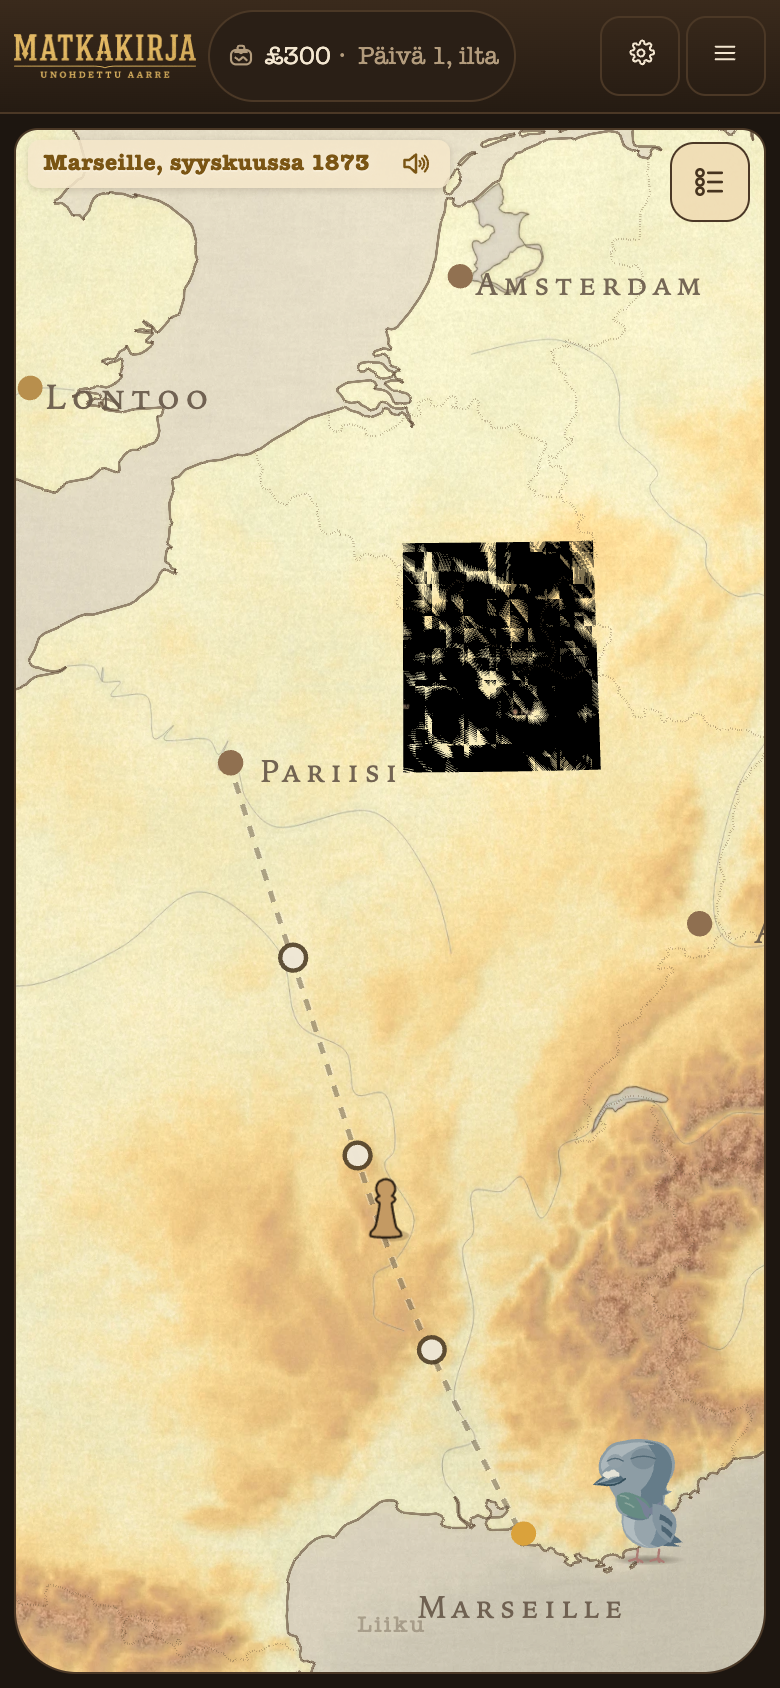
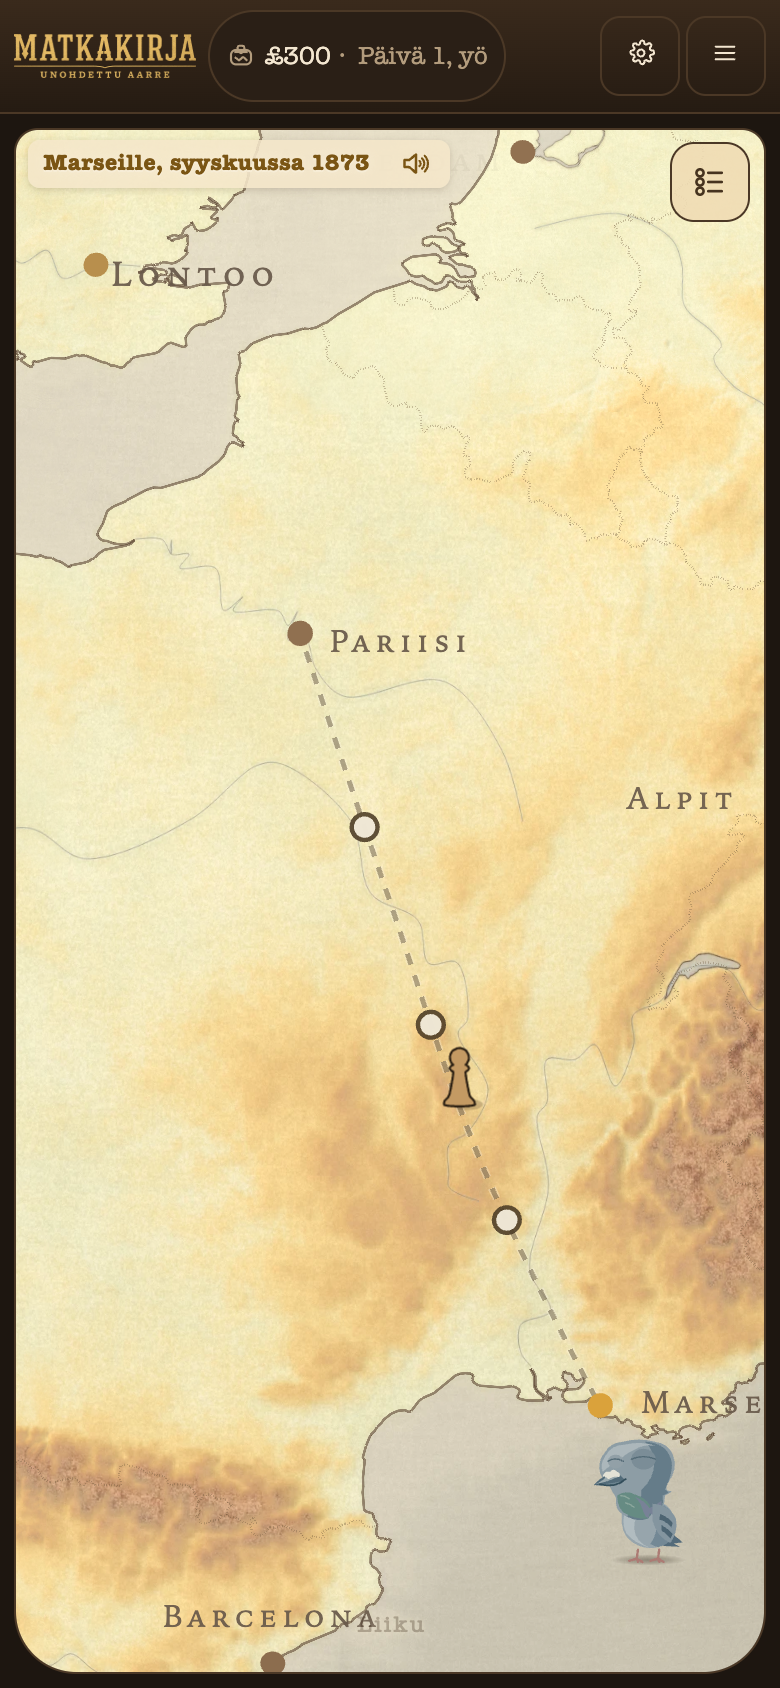
Saatto liukuu nappulan mukana (PAATOKSET 43 kohta 11)
Omistaja 18.9.2026 (iPad/iPhone, v1946): "Kun nappula liikkuu
liftauksen aikana, kartta panoroi vaaraan suuntaan."

JUURISYY MITATTU (savuke-siirtozoomin pohja, Marseille -> pohjoinen,
390x844 ja 1400x900): saatto ajoi maaranpaan SAAPUMISASENTOON, jonka
poikkeama { x: -0,08, y: +0,28 } on NAKYMASTA eli kasvaa nakyvan
kaaren mukana. 1400 px:lla itasiirto oli +1,49 astetta, kun koko
matkan pituusaste-ero on -2,38 astetta: kameran maali jai lahtopisteen
itapuolelle ja kamera panoroi itaan nappulan kulkiessa lanteen
(lng 4,4535 -> 4,4700). 390 px:lla kamera liikkui lanteen vain
kolmanneksen matkasta (-0,77) ja ohitti maaranpaan pohjoisessa
1,3-kertaisesti, joten nappula valui 80 px vasemmalle ja 93 px alas.
Pistetulo kameran ja nappulan liikevektorin valilla oli 0/28
molemmilla ruuduilla.

KORJAUS: askelmittakaavan saaton maali on nappulan SIIRTYMA
(maaranpaa - lahtopaikka) lisattyna kameran nykyiseen keskipisteeseen,
ei saapumisasento. Kesto, kayra ja ennakkozoomin mittakaava
ennallaan. Saapumisasennon tekee perilla palaaMaanRajaukseen ->
lauta.saavu; laiva ja tuntematon kulkutapa pitavat entisen
saapumisajon.

MITATTU JALKEEN: pistetulo > 0 24/24 (390 px) ja 23/23 (1400 px),
nappula keskimmaisella 60 %:lla 201/201 molemmilla.

Savuke-siirtozoomi: uusi vartio 8 "saatto liikkuu nappulan suuntaan"
(pistetulo > 0 jokaisessa 100 ms:n navevalissa + keskialue), kaappaus
saatto-suunta-390.png. Yksi ajo, PORTTI=8832: 16/16 vartiota lapi.
[…]

diff --git a/js/ui.js b/js/ui.js
@@ -22569,9 +22569,10 @@ export class UI {
    * mikä ei ole tilaus (tilaus on panorointi). (3) Siirron on oltava
    * ruudulla tuntuva (SAATON_VAHIN_PX), muuten kartta vain värähtäisi.
    *
-   * KOHDE ON MATKAN PÄÄTEPISTE eikä kaupungin muotolaatikko: kerrointa
-   * ei anneta, joten kamera pitää nykyisen mittakaavansa ja pelkkä
-   * keskipiste siirtyy. MITTAKAAVAN ON ASETTANUT ENNAKKOZOOMI, joka
+   * KOHDE ON NAPPULAN SIIRTYMÄ (askelmittakaavalla) tai matkan
+   * päätepiste — ei kaupungin muotolaatikko: kerrointa ei anneta, joten
+   * kamera pitää nykyisen mittakaavansa ja pelkkä keskipiste siirtyy.
+   * MITTAKAAVAN ON ASETTANUT ENNAKKOZOOMI, joka
    * ajettiin juuri ennen tätä — saatto ei enää zoomaa itse, koska
    * kaksi mittakaavaa samassa ajossa on täsmälleen se sekamelska,
    * jonka omistaja pyysi purkamaan. Näin myös nappulan
@@ -22581,8 +22582,12 @@ export class UI {
    * Lupausta ei odoteta: ajo saa jäädä pyörimään saapumisen yli, ja
    * ele saa keskeyttää sen milloin tahansa. Perillä kamera JÄÄ SIIHEN
    * (ks. osion johdanto: paluuajo poistettiin 1.9.2026).
+   *
+   * `from` on nappulan LÄHTÖPAIKKA: askelmittakaavan saatto liukuu
+   * nappulan mukana eikä määränpään asentoon (ks. SAATTO LIUKUU
+   * NAPPULAN MUKANA alla). Ilman sitä käytös on entinen.
    */
-  aloitaSaattavaKamera(path, kesto) {
+  aloitaSaattavaKamera(path, kesto, from = null) {
     if (this.reducedMotion || this.dead) return;
     const kartta = this.kamera();
     if (!kartta?.ajaKamera) return;
@@ -22618,20 +22623,77 @@ export class UI {
     const skaala = tavoiteLeveys > 0 && nyt.leveys > 0
       ? nyt.skaala * (nyt.leveys / tavoiteLeveys)
       : nyt.skaala;
-    const matka = Math.hypot(kohta.x - nyt.x, kohta.y - nyt.y) * skaala;
+    /*
+     * ══════════════════════════════════════════════════════════════
+     * SAATTO LIUKUU NAPPULAN MUKANA (Raamattu, KARTTAUUDISTUKSEN
+     * PAATOKSET 43 kohta 11)
+     * ══════════════════════════════════════════════════════════════
+     *
+     * Omistaja 18.9.2026 (iPad/iPhone, v1946), sanatarkasti: *"Kun
+     * nappula liikkuu liftauksen aikana, kartta panoroi vaaraan
+     * suuntaan."*
+     *
+     * JUURISYY ON MITATTU EIKÄ ARVATTU (savuke-siirtozoomin pohjalta,
+     * Marseille → Nevers, land, silmä 3):
+     *
+     *   Saatto ajoi määränpään SAAPUMISASENTOON, ja se asento on
+     *   kaupungin POHJOIS- JA ITÄPUOLELLA — poikkeama on
+     *   { x: −0,08, y: +0,28 } NÄKYMÄSTÄ (js/saapumisasento.js
+     *   saapumisenPallonKohta), eli se kasvaa näkyvän kaaren mukana.
+     *   Työpöytäruudulla (1400 × 900, näkyvä leveys 396 lautayksikköä
+     *   = 11,88°) itäsiirto oli +1,49°, kun koko matkan pituusaste-
+     *   ero on vain −2,38°: kameran kohde jäi LÄHTÖPISTEEN ITÄPUOLELLE
+     *   (lng 4,4535 → 4,4700), vaikka nappula kulki länteen. Mitattu
+     *   kameran liikevektori oli siis pituusasteella VASTAKKAINEN
+     *   nappulan liikkeelle — juuri se, minkä omistaja näki.
+     *   Puhelimella (390 × 844) sama poikkeama oli +0,67° itään ja
+     *   +3,07° pohjoiseen: kamera liikkui länteen vain kolmanneksen
+     *   nappulan matkasta ja ohitti määränpään 1,3-kertaisesti
+     *   pohjoisessa, joten nappula valui ruudulla 80 px vasemmalle ja
+     *   90 px alas.
+     *
+     * KORJAUS ON PUHDAS SIIRTYMÄ: kamera ajaa siitä, missä se on, sen
+     * verran ja siihen suuntaan kuin NAPPULA kulkee (määränpää −
+     * lähtöpaikka). Silloin kameran liikevektori on määritelmän
+     * mukaan nappulan liikkeen suuntainen, ja nappula pysyy koko
+     * matkan siinä kohdassa ruutua, johon ennakkozoomi sen jätti.
+     * Kesto, käyrä ja mittakaava ovat ennallaan — muuttuu vain MAALI.
+     *
+     * SAAPUMISASENTO EI KATOA. Maitse ja bussilla kaupunkiin päättyvä
+     * matka ajaa perillä `palaaMaanRajaukseen` → `lauta.saavu`, ja
+     * SE asettaa kaupungin alimpaan kolmannekseen (js/pallolauta/
+     * kamera.js saavu, `saapuminen: true`). Kun saatto teki saman
+     * asennon jo matkan aikana, asento tehtiin kahdesti — ja
+     * ensimmäinen kerta maksoi koko panoroinnin suunnan.
+     *
+     * LAIVA JA TUNTEMATON KULKUTAPA ENNALLAAN. Niillä ennakkozoomi
+     * rajaa KOKO MATKAN (MATKARAJAUKSEN_MARGINAALI sea 0,5,
+     * PAATOKSET 40: *"LAIVA PITÄÄ MATKARAJAUKSENSA"*), jolloin kamera
+     * ei ole nappulan päällä vaan matkan keskellä eikä puhdas siirtymä
+     * osuisi mihinkään. Ehto on sama `tavoiteLeveys`, joka erottaa
+     * askelmittakaavan muista jo kynnyksessä.
+     */
+    const lahto = from ? pixelOf(this.game.board, from) : null;
+    const siirtyma = tavoiteLeveys > 0 && Number.isFinite(lahto?.x)
+      ? { x: kohta.x - lahto.x, y: kohta.y - lahto.y }
+      : null;
+    const matka = siirtyma
+      ? Math.hypot(siirtyma.x, siirtyma.y) * skaala
+      : Math.hypot(kohta.x - nyt.x, kohta.y - nyt.y) * skaala;
     // Kynnys ruudun leveydestä, pohja absoluuttinen (ks. SAATON_VAHIN_PX).
     const kynnys = Math.max(SAATON_VAHIN_PX,
       (this.mapPane?.clientWidth ?? 0) * SAATON_VAHIN_OSUUS);
     if (!(matka > kynnys)) return;
     /*
-     * SAATTO PÄÄTTYY SAAPUMISASENTOON (omistaja 9.9.2026, Raamattu
-     * SAAPUMISESSA KAMERA ASETTUU NIIN, ETTA KAUPUNKI ON ALIMMASSA
-     * KOLMANNEKSESSA): määränpää ei jää ruudun keskelle vaan alimpaan
-     * kolmannekseen, jolloin luentakuvalle jää tila sen yläpuolelle.
-     * Kävelymatkalla tämä ON saapumisajo — paluuajo poistettiin
-     * 1.9.2026, joten kamera jää tähän asentoon. Siirto lasketaan
-     * laudan kamerassa (`saapuminen`), joten kaava on sama molemmilla
-     * laudoilla eikä ui.js tunne lautaa.
+     * SAATTO PÄÄTTYY SAAPUMISASENTOON — VAIN SILLOIN KUN SE ON MATKAN
+     * VIIMEINEN AJO (omistaja 9.9.2026, Raamattu SAAPUMISESSA KAMERA
+     * ASETTUU NIIN, ETTA KAUPUNKI ON ALIMMASSA KOLMANNEKSESSA).
+     * Askelmittakaavan saatto EI enää tee sitä: sen maali on nappulan
+     * siirtymä (yllä), ja asennon tekee perillä `palaaMaanRajaukseen`.
+     * Muilla (laiva, tuntematon kulkutapa) tämä on yhä se ajo, johon
+     * kamera jää, joten `saapuminen` säilyy. Siirto lasketaan laudan
+     * kamerassa, joten kaava on sama molemmilla laudoilla eikä ui.js
+     * tunne lautaa.
      */
     /*
      * SAATTO PITÄÄ ENNAKKOZOOMIN MITTAKAAVAN — NYT KIRJATTUNA, EI
@@ -22649,12 +22711,19 @@ export class UI {
      * Ilman lukua (laiva, tuntematon kulkutapa) käytös on entinen:
      * pelkkä keskipiste siirtyy.
      */
-    void kartta.ajaKamera(
-      tavoiteLeveys > 0
-        ? { x: kohta.x, y: kohta.y, leveys: tavoiteLeveys, saapuminen: true }
-        : { x: kohta.x, y: kohta.y, saapuminen: true },
-      { kesto, pehmennys: SAATON_PEHMENNYS },
-    );
+    let kamerankohde;
+    if (siirtyma) {
+      kamerankohde = {
+        x: nyt.x + siirtyma.x, y: nyt.y + siirtyma.y, leveys: tavoiteLeveys,
+      };
+    } else if (tavoiteLeveys > 0) {
+      kamerankohde = {
+        x: kohta.x, y: kohta.y, leveys: tavoiteLeveys, saapuminen: true,
+      };
+    } else {
+      kamerankohde = { x: kohta.x, y: kohta.y, saapuminen: true };
+    }
+    void kartta.ajaKamera(kamerankohde, { kesto, pehmennys: SAATON_PEHMENNYS });
   }
 
   /**
@@ -22974,7 +23043,7 @@ export class UI {
       const kyydissa = kyyti && !this.reducedMotion && typeof kuljettaja.aja === 'function';
       const nappulanKesto = path.length * stepMs
         + (kyydissa ? 0 : Math.max(0, path.length - 1) * HYPYN_TAUKO_MS);
-      this.aloitaSaattavaKamera(path, siirtoajonKesto(nappulanKesto));
+      this.aloitaSaattavaKamera(path, siirtoajonKesto(nappulanKesto), from);
       /*
        * YHDEN ASKELEEN MATKA JÄÄ ILMAN OMAA ÄÄNTÄ. Maisema nousee
        * kuuluviin 900 ms:ssa, ja viimeinen askel vaihtaa sen jo

diff --git a/docs/raportit/viesti-fable-saatto-suunta-20260918.md b/docs/raportit/viesti-fable-saatto-suunta-20260918.md
@@ -1,0 +1,180 @@
+# Viesti Fablelle: saatto liikkuu nappulan suuntaan (PAATOKSET 43 kohta 11)
+
+**Opus-erä 18.9.2026, haara `claude/bold-ride-vow4ki-saatto-suunta`,
+pohja `claude/bold-ride-vow4ki-v1947` (72e775e9).**
+
+Omistaja sanatarkasti (v1946, iPad/iPhone): *"Kun nappula liikkuu
+liftauksen aikana, kartta panoroi vaaraan suuntaan."*
+
+---
+
+## 1. Juurisyy — MITATTU, ei arvattu
+
+Mittaus ajettiin savuke-siirtozoomin pohjalla: Marseille → maasiirto
+silmällä 3 (määränpää reitin pohjoispäässä Pariisin suuntaan,
+lat 47,566 / lon 3,005), ruudut 390 × 844 ja 1400 × 900, dpr 2, pallolauta.
+Saaton ajalta poimittiin näyte 100 ms:n välein: kameran keskipiste
+(`kameranTila` → lat/lng ja laudan x/y) ja liikkuvan nappulan ruutupiste.
+
+**Vika ei ollut ennakkozoomissa eikä pituusasteen merkissä vaan saaton
+MAALISSA: saatto ajoi määränpään SAAPUMISASENTOON.**
+
+Saapumisasento (js/saapumisasento.js `saapumisenPallonKohta`) siirtää
+kameran kaupungin **pohjois- ja itäpuolelle** poikkeamalla
+`{ x: −0,08, y: +0,28 }` **NÄKYMÄSTÄ** — eli siirto kasvaa näkyvän kaaren
+mukana. Mitatut luvut:
+
+| | näkyvä leveys | = kaari | itäsiirto | pohjoissiirto |
+|---|---|---|---|---|
+| 390 × 844 | 177,0 yks | 5,31° | **+0,67°** | **+3,07°** |
+| 1400 × 900 | 396,0 yks | 11,88° | **+1,49°** | **+1,98°** |
+
+Koko matkan pituusaste-ero on vain **−2,38°** (5,381° → 3,005°, länteen).
+Siksi:
+
+**1400 × 900 — kamera panoroi ITÄÄN nappulan kulkiessa LÄNTEEN.**
+Mitattu kameran pituusaste saaton aikana: `4,4535 → 4,4700` (kasvaa),
+kun nappula kulki `5,381 → 3,005`. Kameran maali oli siis
+lähtöpisteensä **itäpuolella**, vaikka matka meni länteen.
+
+**390 × 844 — kamera liikkui länteen vain kolmanneksen nappulan matkasta
+ja ohitti määränpään 1,3-kertaisesti pohjoisessa.** Kameran pituusaste
+`4,4535 → 3,6815` (−0,77°, kun nappula kulki −2,38°) ja leveysaste
+`44,996 → 50,59` (+5,6°, kun määränpää on 47,57°). Nappula valui
+ruudulla 234 px → 155 px (80 px vasemmalle) ja 487 px → 580 px
+(93 px alas).
+
+### Pistetulot ENNEN korjausta
+
+Kameran ja nappulan liikevektorin pistetulo laudan yksiköissä,
+100 ms:n näytevälit saaton ajalta:
+
+| ruutu | pistetulo > 0 | pistetulo ≤ 0 |
+|---|---|---|
+| 390 × 844 | **0/28** | 28/28 |
+| 1400 × 900 | **0/28** | 28/28 |
+
+(Ensimmäisessä ajossa nappulan maantieteellinen paikka luettiin
+globe.gl:n `toGeoCoords`illa, joka odottaa 3D-koordinaatteja eikä
+ruutupistettä → NaN. Toinen ajo laski nappulan paikan laudan
+yksiköissä kameran keskipisteestä ja ruutupoikkeamasta samalla
+mittakaavalla; siitä ovat kaikki yllä olevat luvut.)
+
+Epäilyt, jotka mittaus **sulki pois**: saaton maali EI ollut matkan
+laatikon keskipiste (`saatonKohde.x/y` oli määränpään piste),
+antimeridiaania ei ylitetä, alku- ja loppupiste eivät olleet vaihtuneet,
+ennakkozoomin tavoite oli oikea (askelen mediaani, vartio 7 vihreä
+0,1 %:n tarkkuudella), eikä pallolla ajettu "lautakoordinaateissa
+asteiden sijaan" — `kameranKohde` muuntaa laudan pisteen asteiksi
+oikein.
+
+---
+
+## 2. Korjaus
+
+`js/ui.js` `aloitaSaattavaKamera(path, kesto, from)` — **saaton maali on
+nappulan SIIRTYMÄ, ei määränpään asento**:
+
+```
+siirtyma = pixelOf(määränpää) − pixelOf(from)
+maali    = kameran nykyinen keskipiste + siirtyma      (leveys = ennakon tavoite)
+```
+
+Kamera ajaa siis siitä, missä se on, sen verran ja siihen suuntaan kuin
+nappula kulkee. Kameran liikevektori on määritelmän mukaan nappulan
+liikkeen suuntainen, ja nappula pysyy koko matkan siinä kohdassa ruutua,
+johon ennakkozoomi sen jätti. **Kesto (3 160 ms), käyrä
+(`SAATON_PEHMENNYS`) ja ennakkozoomin mittakaava ovat ennallaan —
+muuttui vain maali.**
+
+Kaksi asiaa, jotka korjaus säilyttää:
+
+* **Saapumisasento ei katoa.** Maitse ja bussilla kaupunkiin päättyvä
+  matka ajaa perillä `palaaMaanRajaukseen` → `lauta.saavu`, ja SE
+  asettaa kaupungin alimpaan kolmannekseen (`saapuminen: true`,
+  js/pallolauta/kamera.js). Kun saatto teki saman asennon jo matkan
+  aikana, asento tehtiin kahdesti — ja ensimmäinen kerta maksoi koko
+  panoroinnin suunnan.
+* **Laiva ja tuntematon kulkutapa ennallaan.** Niillä ennakkozoomi rajaa
+  koko matkan (`MATKARAJAUKSEN_MARGINAALI` sea 0,5; PAATOKSET 40:
+  *"LAIVA PITÄÄ MATKARAJAUKSENSA"*), jolloin kamera ei ole nappulan
+  päällä vaan matkan keskellä eikä puhdas siirtymä osuisi mihinkään.
+  Ehto on sama `siirtozoominLeveys`, joka erottaa askelmittakaavan
+  muista jo kynnyksessä — noilla saatto ajaa yhä `saapuminen: true`.
+
+Kynnys (`SAATON_VAHIN_PX`) mittaa askelmittakaavalla nyt matkan oman
+pituuden (|siirtymä| × mittakaava), mikä on täsmälleen se panorointi,
+jonka kamera tekee.
+
+---
+
+## 3. Pistetulot JÄLKEEN
+
+| ruutu | pistetulo > 0 | nappula keskimmäisellä 60 %:lla |
+|---|---|---|
+| 390 × 844 | **24/24** | 201/201 |
+| 1400 × 900 | **23/23** | 201/201 |
+
+Kameran pituusaste kulkee nyt nappulan mukana: 390 px `4,4535 → 2,2320`,
+1400 px `4,4535 → 2,2549` (molemmilla länteen, kuten matka).
+Nappulan ruutupaikka pysyi 390 px:llä välillä x 215–245 / y 435–515
+(ruutu 374 × 771) ja 1400 px:llä x 735–785 / y 503–634 (1379 × 821) —
+ei enää 80 px:n valumista reunaa kohti.
+
+---
+
+## 4. Savuke
+
+`tools/savukkeet/savuke-siirtozoomi.mjs`: uusi **vartio 8 "saatto
+liikkuu nappulan suuntaan"** molemmille ruuduille. Se poimii näytteen
+100 ms:n välein saaton ajalta (nappula liikkeessä) ja vaatii, että
+kameran ja nappulan liikevektorin pistetulo on > 0 JOKAISESSA
+näytevälissä ja että nappula on samaan aikaan ruudun keskimmäisellä
+60 %:lla. Molemmat vektorit luetaan laudan yksiköissä samasta
+näytteestä, joten vertailu on yhdessä koordinaatistossa.
+
+**Yksi ajo, PORTTI=8832: 16/16 vartiota läpi** (vartiot 1–7 entisillään
+molemmilla ruuduilla, 8 uusi).
+
+```
+OK    8 390: saatto liikkuu nappulan suuntaan (pistetulo > 0 24/24, nappula keskialueella 201/201)
+OK    8 1400: saatto liikkuu nappulan suuntaan (pistetulo > 0 23/23, nappula keskialueella 201/201)
+16/16 vartiota läpi
+```
+
+Kaappaus saaton keskeltä 390 px:
+`tools/savukkeet/kaappaukset/siirtozoomi/saatto-suunta-390.png` —
+nappula on Marseillen ja Pariisin välisellä katkoviivalla suunnilleen
+ruudun keskellä, molemmat päät näkyvissä. Vanhat kaappaukset
+(`ennakko-390.png`, `saatto-390.png`, `saatto-1400.png`) päivittyivät
+samalla ajolla.
+
+---
+
+## 5. Muut tarkistukset
+
+* `node --test tests/*.test.mjs`: **# pass 3628 / # fail 0** (3641 testiä).
+  `tests/siirtoajoitus.test.mjs` "saattoajo ei enää zoomaa itse eikä
+  palaa perillä" päivitettiin: se luki metodin allekirjoituksella
+  `aloitaSaattavaKamera(path, kesto)` ja vartioi nyt myös, että maali
+  on nappulan siirtymä ja että kutsu välittää lähtöpaikan.
+* `node tools/build-standalone.mjs`: dist/matkakirja.html 32 761 kt, ok
+  (dist/ ei committoida).
+* Versionumeroa ei nostettu, PR:ää ei avattu.
+
+## 6. Avoinna / velat
+
+* Vartio 8 vertaa vakiosuuntaista kamera-ajoa askelkohtaiseen nappulan
+  liikkeeseen. Tällä reitillä kaikki askelvälit osoittavat samaan
+  puoliavaruuteen, joten pistetulo on reilusti positiivinen; reitillä,
+  jossa yksi askel kääntyy lähes kohtisuoraan matkan suuntaan nähden,
+  pistetulo voisi mennä nollan tuntumaan. Jos omistaja haluaa taatun
+  marginaalin, saatto pitäisi ajaa nappulan paikasta kehyksittäin — se
+  muuttaisi kameran käyrän, mitä tämä erä ei saanut tehdä.
+* Vartion 2 raja 1400 px:llä osuu tasan (205 px ≥ 205 px,
+  `ASKELEN_SIETO` 0,99) — sama velka kuin PAATOKSET 40:n TILA 2:ssa.
+* `aloitaSaattavaKamera`n johdantokommentin lause *"perillä kamera JÄÄ
+  SIIHEN"* pitää enää laivalla ja tuntemattomalla kulkutavalla;
+  maasiirrossa `palaaMaanRajaukseen` ajaa perään. Kommentti on
+  korjattu metodin sisällä, mutta osion SAATTAVA KAMERA johdanto
+  (js/ui.js ~rivi 140) puhuu yhä vanhasta järjestyksestä.
